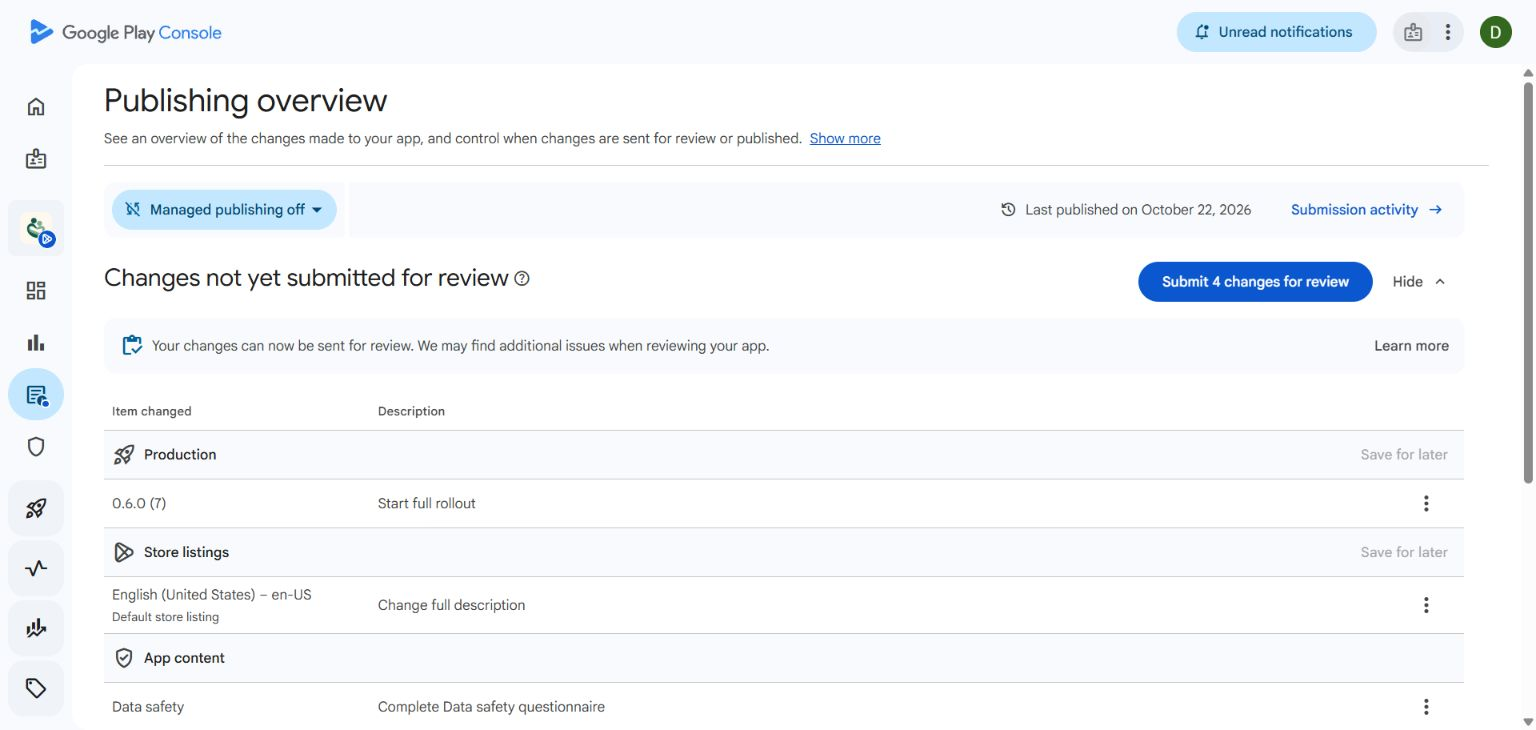
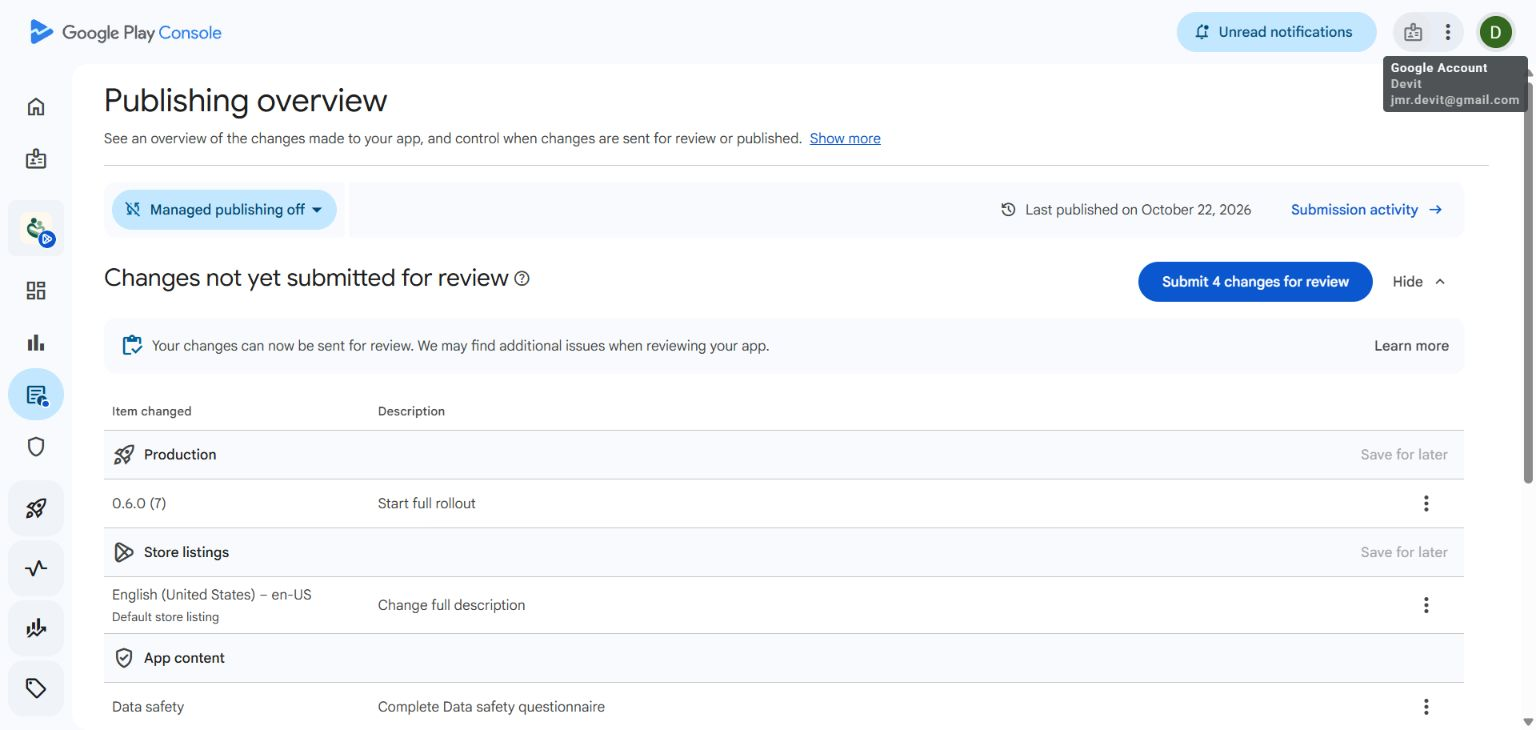
Record exact owner verification needed for existing Play submission

Changed region(s): [[0.875, 0.0603, 1.0, 0.1507]]

diff --git a/TEAM_HANDOFF.md b/TEAM_HANDOFF.md
@@ -7,7 +7,7 @@ This is the starting point for another developer or Codex chat. Read the latest 
 - The user explicitly requested submitting the current **0.6.0 (7)** as-is after the previous limitations were disclosed. That direction supersedes the discretionary hold below; it does not turn unfinished verification into a pass.
 - The earlier denied migration was sent to the separate disabled-transcription project, not the care-record backend. Both exact reviewed conversation/prescription migrations are now **applied on source-confirmed CareCloud** through normal approved MCP. All required tables/RPCs, RLS, permission restrictions, legacy compatibility and triggers were verified; no new security WARN/ERROR. No patient rows, production fixtures or clinician approvals were touched. Current evidence: `output/android/verification/0.6.0/backend-corrected-target-current-result.json`. No migration reconnect action remains; do not apply again.
 - Existing Production release **3**, **0.6.0 (7)**, was saved to Publishing overview with **4 changes**. Google quick checks completed successfully. Keyboard, normal click, fresh-tab and direct Chrome accessibility/coordinate confirmations close without a new recorded submission. **Current Google status remains Changes not yet submitted for review**, with no new submission-activity row; the cause is unconfirmed. No bundle reupload, new release, new account or permission change occurred.
-- Existing-owner sign-in refresh now requires the owner's **password/passkey in the open Devit Chrome tab**. The user has been asked to finish it without sending credentials in chat. Continue the existing submission afterwards and require actual Changes in review/receipt; do not infer success from clicks. Evidence: `output/android/verification/0.6.0/play-production-060-current-submission-attempt.json`.
+- After the user reported signing in, one resumed confirmation still left the four changes unsubmitted. The earlier Google verification screen was for the alternate signed-in account. The recovery tab is now explicitly on the **actual Play owner's Welcome/password or passkey screen**; the user has been asked to finish this exact account verification in Chrome, without credentials in chat. This is not a proven cause of the unrecorded submission. Continue the existing release afterwards and require actual Changes in review/receipt; do not infer success from clicks. Evidence: `output/android/verification/0.6.0/play-production-060-current-submission-attempt.json`.
 - Native interaction remains unverified after the recorded emulator launcher ANR. Current read-only device inventory found no phone/emulator; no new build or boot loop was started. Production **0.5.0 (6)** remains the last verified public version. The signed0.6 bundle/hash and current web remain unchanged.
 
 ## 24 October, earlier: corrected 3D canvas and signed candidate

diff --git a/PROJECT_CONTEXT_MAP.md b/PROJECT_CONTEXT_MAP.md
@@ -5,7 +5,7 @@
 - The user explicitly requested submitting the current **0.6.0 (7)** as-is after the previous limitations were disclosed. That direction supersedes the discretionary hold below; it does not turn unfinished verification into a pass.
 - The earlier denied migration was sent to the separate disabled-transcription project, not the care-record backend. Both exact reviewed conversation/prescription migrations are now **applied on source-confirmed CareCloud** through normal approved MCP. All required tables/RPCs, RLS, permission restrictions, legacy compatibility and triggers were verified; no new security WARN/ERROR. No patient rows, production fixtures or clinician approvals were touched. Current evidence: `output/android/verification/0.6.0/backend-corrected-target-current-result.json`. No migration reconnect action remains; do not apply again.
 - Existing Production release **3**, **0.6.0 (7)**, was saved to Publishing overview with **4 changes**. Google quick checks completed successfully. Keyboard, normal click, fresh-tab and direct Chrome accessibility/coordinate confirmations close without a new recorded submission. **Current Google status remains Changes not yet submitted for review**, with no new submission-activity row; the cause is unconfirmed. No bundle reupload, new release, new account or permission change occurred.
-- Existing-owner sign-in refresh now requires the owner's **password/passkey in the open Devit Chrome tab**. The user has been asked to finish it without sending credentials in chat. Continue the existing submission afterwards and require actual Changes in review/receipt; do not infer success from clicks. Evidence: `output/android/verification/0.6.0/play-production-060-current-submission-attempt.json`.
+- After the user reported signing in, one resumed confirmation still left the four changes unsubmitted. The earlier Google verification screen was for the alternate signed-in account. The recovery tab is now explicitly on the **actual Play owner's Welcome/password or passkey screen**; the user has been asked to finish this exact account verification in Chrome, without credentials in chat. This is not a proven cause of the unrecorded submission. Continue the existing release afterwards and require actual Changes in review/receipt; do not infer success from clicks. Evidence: `output/android/verification/0.6.0/play-production-060-current-submission-attempt.json`.
 - Native interaction remains unverified after the recorded emulator launcher ANR. Current read-only device inventory found no phone/emulator; no new build or boot loop was started. Production **0.5.0 (6)** remains the last verified public version. The signed0.6 bundle/hash and current web remain unchanged.
 
 ## 24 October 2026, earlier: corrected canvas deployment and release candidate
